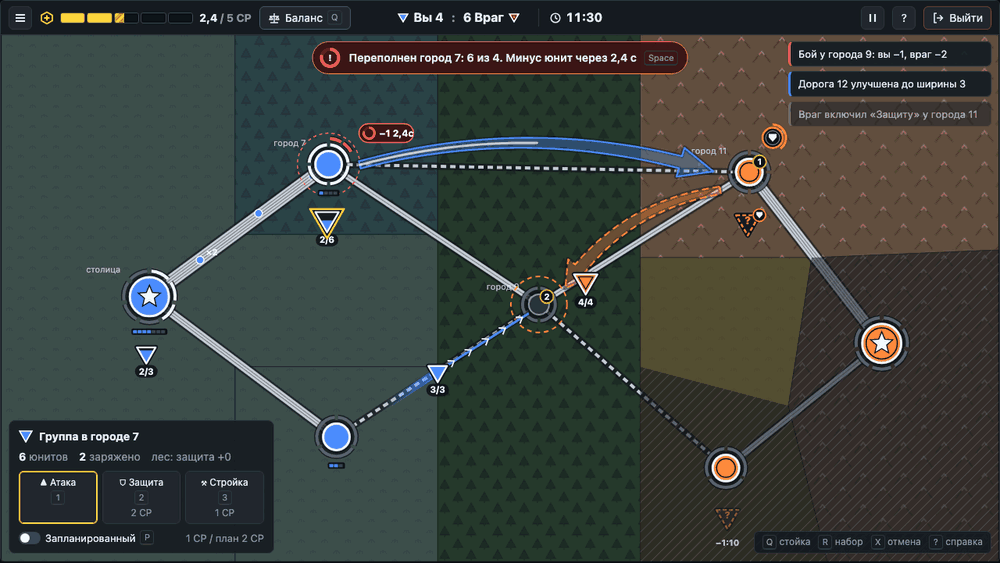
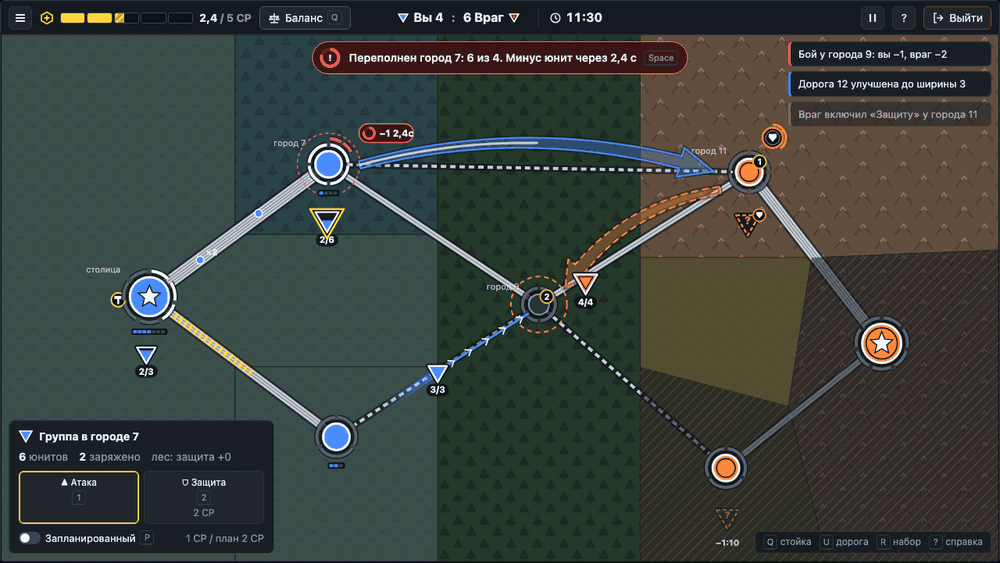
docs(docs): align the style guide with DEC-16 road upgrades by city (#202)

diff --git a/docs/design/mockups/ui-style.html b/docs/design/mockups/ui-style.html
@@ -250,7 +250,7 @@
       }
       .modes {
         display: grid;
-        grid-template-columns: repeat(3, 1fr);
+        grid-template-columns: repeat(2, 1fr);
         gap: 6px;
       }
       .mode {
@@ -478,7 +478,6 @@
         <div class="modes">
           <div class="mode on">▲ Атака <kbd>1</kbd></div>
           <div class="mode">⛉ Защита <kbd>2</kbd><span class="dim">2 CP</span></div>
-          <div class="mode">⚒ Стройка <kbd>3</kbd><span class="dim">1 CP</span></div>
         </div>
         <div class="row">
           <span class="toggle"><span class="switch"></span> Запланированный <kbd>P</kbd></span>
@@ -487,8 +486,8 @@
       </aside>
 
       <div class="hint-bar">
-        <span><kbd>Q</kbd> стойка</span><span><kbd>R</kbd> набор</span
-        ><span><kbd>X</kbd> отмена</span><span><kbd>?</kbd> справка</span>
+        <span><kbd>Q</kbd> стойка</span><span><kbd>U</kbd> дорога</span
+        ><span><kbd>R</kbd> набор</span><span><kbd>?</kbd> справка</span>
       </div>
     </section>
     <p class="note">
@@ -939,6 +938,17 @@
       road(map, N.B, N.E, 1);
       road(map, N.G, N.F, 2);
 
+      // Стройка: столица улучшает дорогу к городу снизу (DEC-16), штриховка растёт к концу стройки.
+      (() => {
+        const [a, c] = [N.A, N.C];
+        const t = 0.55;
+        el(map, 'line', { x1: a[0], y1: a[1], x2: a[0] + (c[0] - a[0]) * t, y2: a[1] + (c[1] - a[1]) * t, stroke: C.accent, 'stroke-width': 10, 'stroke-dasharray': '4 4', 'stroke-opacity': 0.9 });
+        const bx = a[0] - 40;
+        const by = a[1] + 4;
+        el(map, 'circle', { cx: bx, cy: by, r: 9, fill: C.ink, stroke: C.accent, 'stroke-width': 2 });
+        el(map, 'path', { d: `M${bx - 5} ${by - 5}h10v4h-10ZM${bx - 1.3} ${by - 1}h2.6v6.5h-2.6Z`, fill: C.paper });
+      })();
+
       // Туман над глубоким тылом врага (до городов, чтобы города остались видны).
       el(map, 'polygon', { points: pts([[1040, 330], [1280, 320], [1280, 720], [1060, 720], [1010, 520]]), fill: 'url(#fog)' });
       el(map, 'polygon', { points: pts([[820, 470], [1010, 520], [1060, 720], [820, 720]]), fill: 'url(#fog)' });
@@ -1068,8 +1078,8 @@
       label(800, 140, 'враг без чисел', { dim: true });
       unit(lg, [915, 85], { owner: 0, units: 4, charged: 4, mode: 'defense', size: 30, label: '4/4' });
       label(915, 140, 'режим «Защита»', { dim: true });
-      unit(lg, [1025, 85], { owner: 0, units: 4, charged: 1, mode: 'build', size: 30, label: '1/4' });
-      label(1025, 140, '«Стройка»', { dim: true });
+      unit(lg, [1025, 85], { owner: 0, units: 4, charged: 1, size: 30, label: '1/4', selected: true });
+      label(1025, 140, 'выделена', { dim: true });
       unit(lg, [1170, 85], { owner: 1, presence: true, size: 28, alpha: 0.42 });
       label(1170, 125, '−1:10', { bold: true });
       label(1170, 140, 'призрак гаснет к 2:00', { dim: true });
